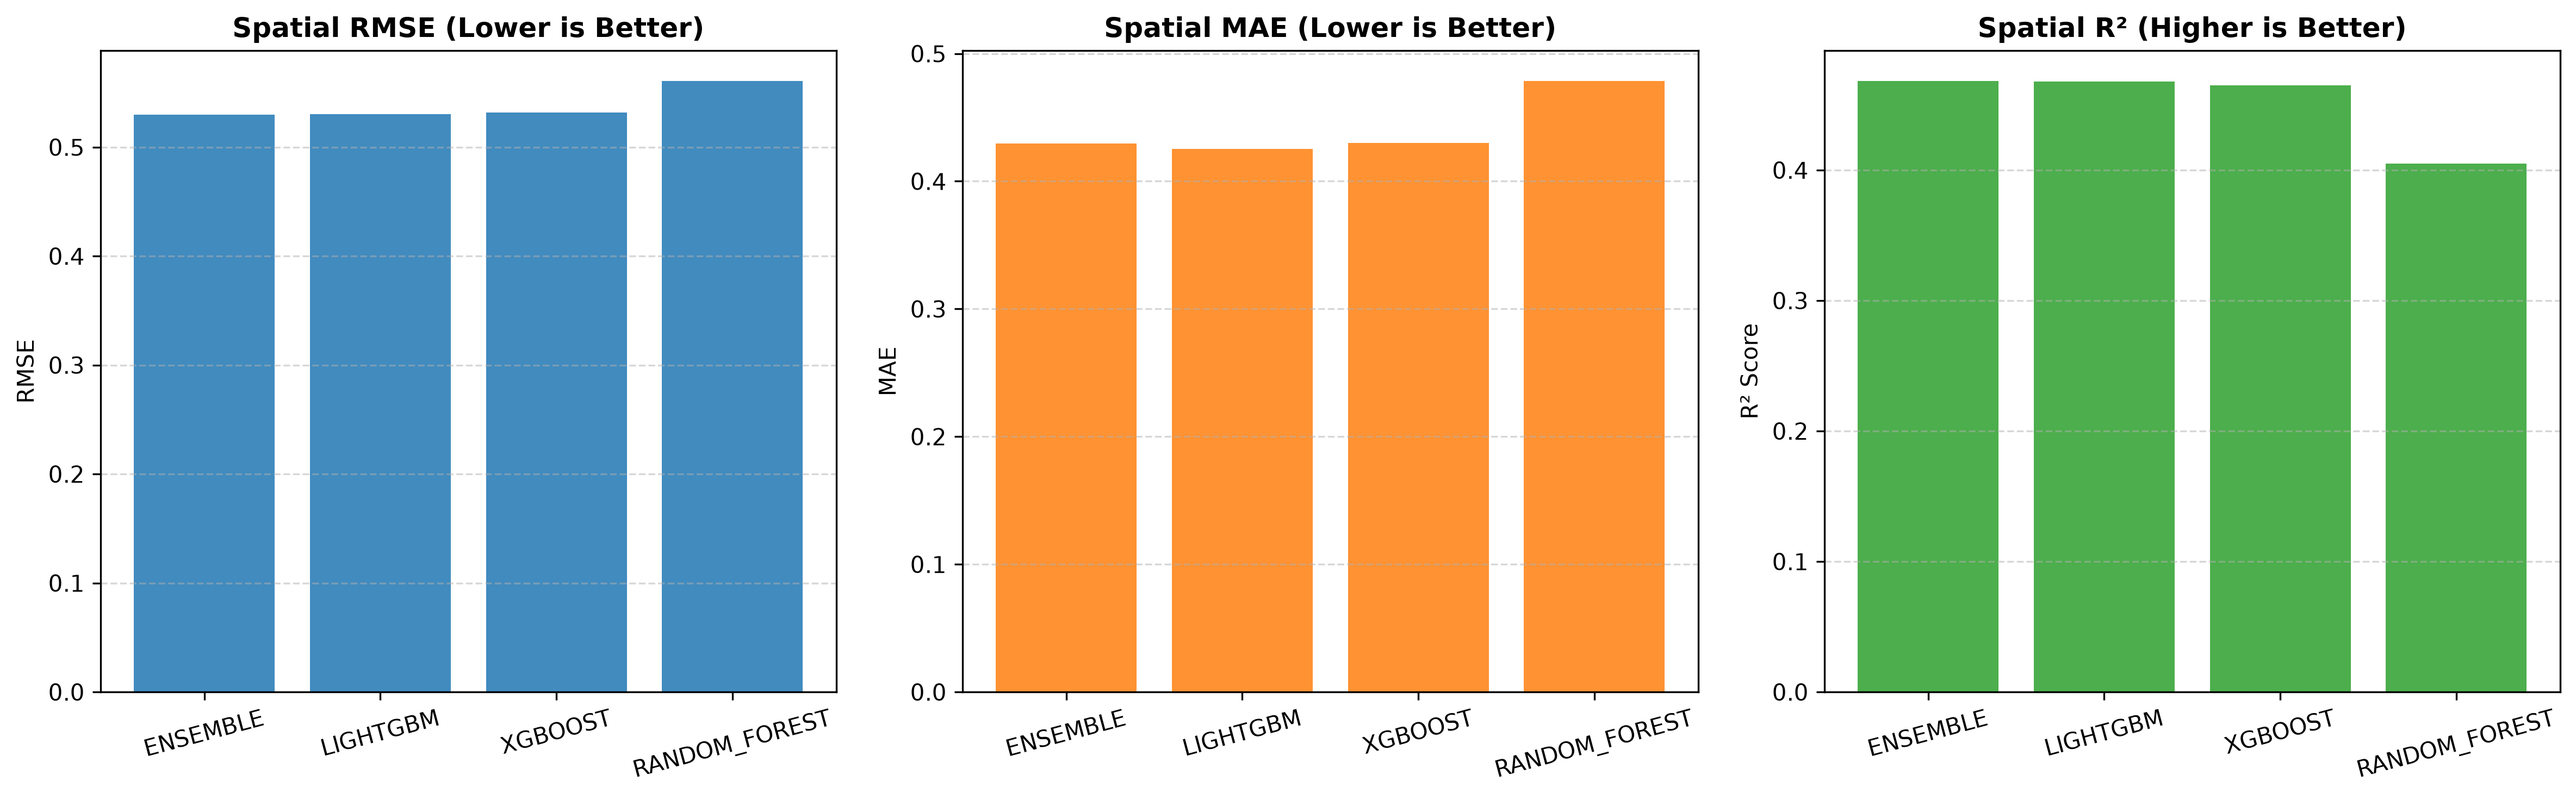
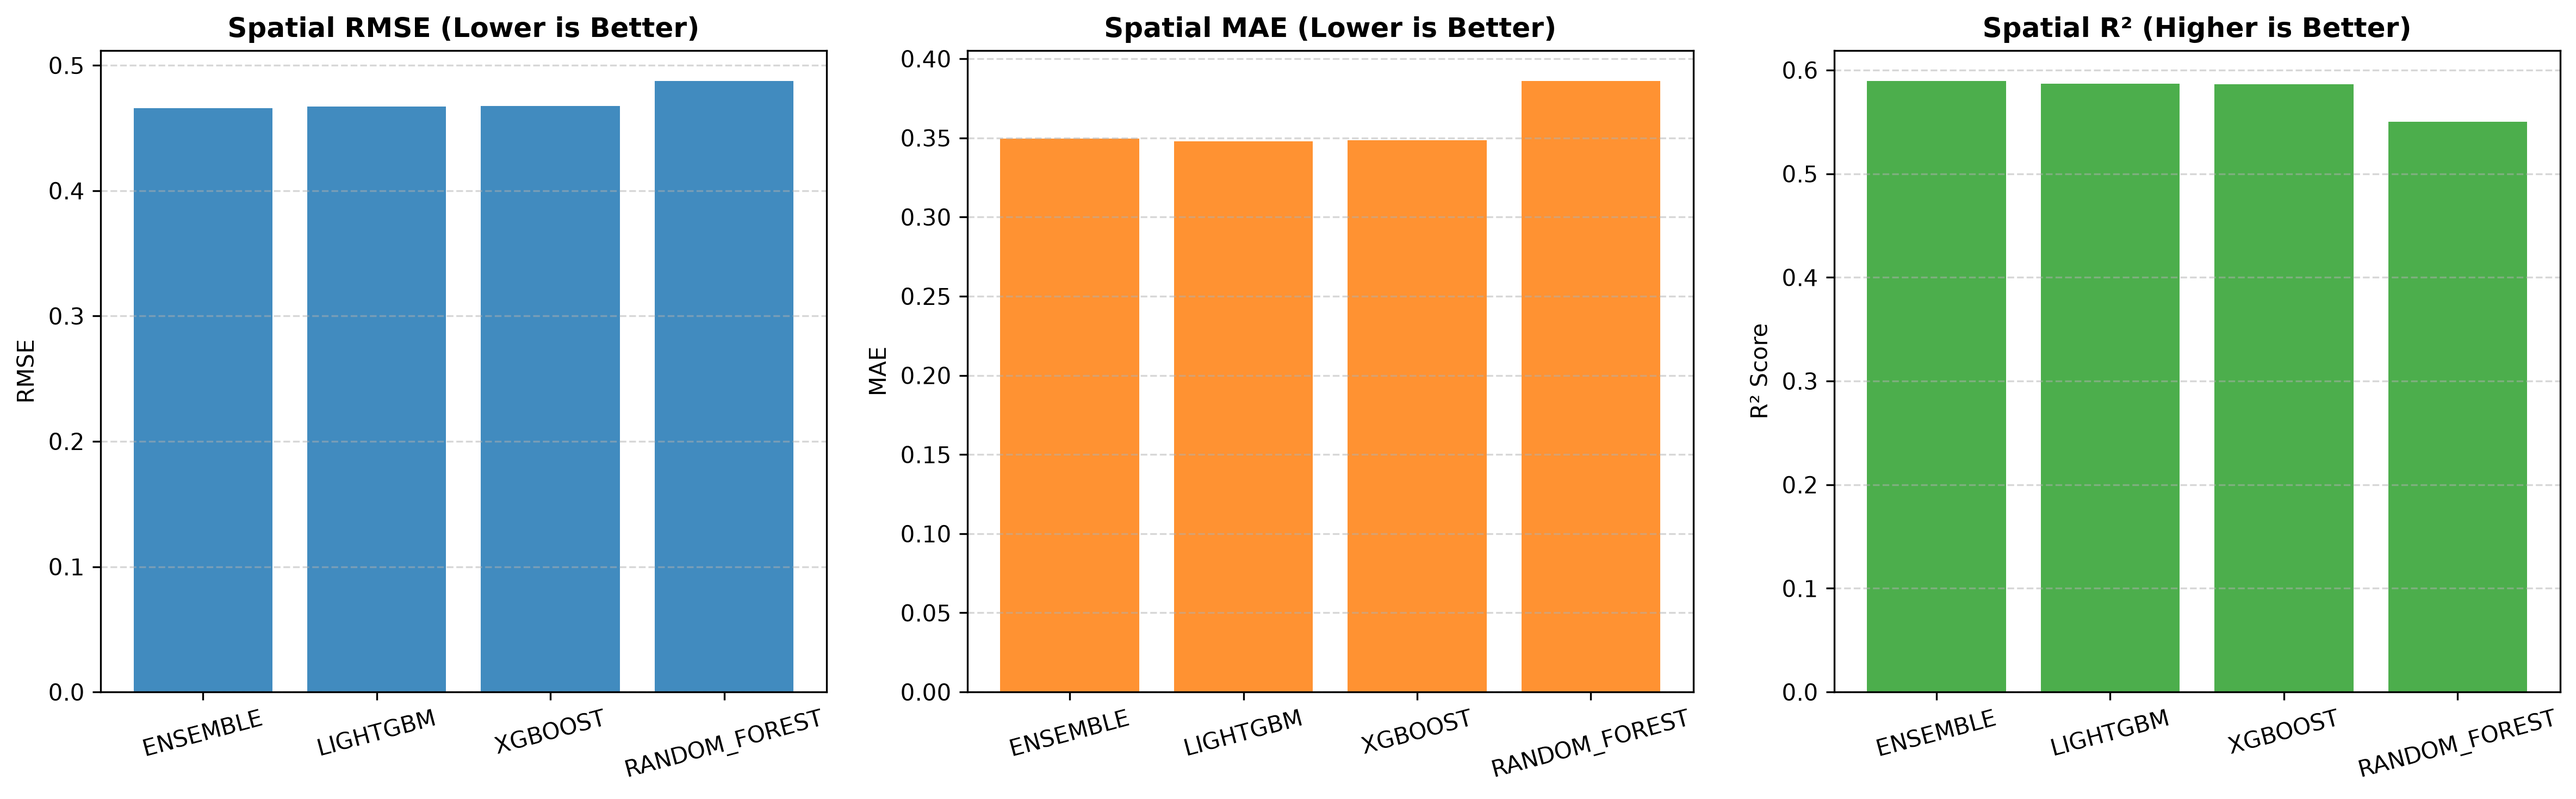
refactor: update ensemble hyperparameters and add prediction clipping to models

diff --git a/modeling.py b/modeling.py
@@ -816,19 +816,20 @@ class GrandmasterEnsembleRegressor:
         weights: Optional[Dict[str, float]] = None
     ) -> None:
         self.random_state = random_state
-        self.weights = weights or {"lgb": 0.45, "xgb": 0.45, "rf": 0.10}
+        self.weights = weights or {"lgb": 0.50, "xgb": 0.40, "rf": 0.10}
         self.model_lgb = lgb.LGBMRegressor(
-            n_estimators=220, learning_rate=0.035, max_depth=6, num_leaves=31,
-            subsample=0.8, colsample_bytree=0.75, reg_alpha=0.1, reg_lambda=1.0,
+            n_estimators=320, learning_rate=0.03, max_depth=6, num_leaves=35,
+            subsample=0.8, colsample_bytree=0.7, reg_alpha=0.2, reg_lambda=1.5,
             random_state=self.random_state, verbose=-1, n_jobs=-1
         )
         self.model_xgb = xgb.XGBRegressor(
-            n_estimators=220, learning_rate=0.035, max_depth=5,
-            subsample=0.8, colsample_bytree=0.75, reg_alpha=0.1, reg_lambda=1.0,
+            n_estimators=300, learning_rate=0.03, max_depth=5,
+            subsample=0.8, colsample_bytree=0.7, reg_alpha=0.2, reg_lambda=1.5,
             random_state=self.random_state, verbosity=0, n_jobs=-1
         )
         self.model_rf = RandomForestRegressor(
-            n_estimators=120, max_depth=14, max_features="sqrt",
+            n_estimators=100, max_depth=16, max_features="sqrt",
+            min_samples_split=4, min_samples_leaf=2,
             random_state=self.random_state, n_jobs=-1
         )
 
@@ -842,11 +843,12 @@ class GrandmasterEnsembleRegressor:
         p_lgb = self.model_lgb.predict(X)
         p_xgb = self.model_xgb.predict(X)
         p_rf = self.model_rf.predict(X)
-        return (
+        raw_pred = (
             self.weights["lgb"] * p_lgb
             + self.weights["xgb"] * p_xgb
             + self.weights["rf"] * p_rf
         )
+        return np.clip(raw_pred, 0.0, 2.0)
 
 
 # ==============================================================================
@@ -878,14 +880,14 @@ class VolatilityPredictor:
             if not HAS_LIGHTGBM:
                 raise ImportError("lightgbm is not installed.")
             default_params = {
-                "n_estimators": 220,
-                "learning_rate": 0.035,
+                "n_estimators": 320,
+                "learning_rate": 0.03,
                 "max_depth": 6,
-                "num_leaves": 31,
+                "num_leaves": 35,
                 "subsample": 0.8,
-                "colsample_bytree": 0.75,
-                "reg_alpha": 0.1,
-                "reg_lambda": 1.0,
+                "colsample_bytree": 0.7,
+                "reg_alpha": 0.2,
+                "reg_lambda": 1.5,
                 "random_state": self.random_state,
                 "verbose": -1,
                 "n_jobs": -1,
@@ -897,13 +899,13 @@ class VolatilityPredictor:
             if not HAS_XGBOOST:
                 raise ImportError("xgboost is not installed.")
             default_params = {
-                "n_estimators": 220,
-                "learning_rate": 0.035,
+                "n_estimators": 300,
+                "learning_rate": 0.03,
                 "max_depth": 5,
                 "subsample": 0.8,
-                "colsample_bytree": 0.75,
-                "reg_alpha": 0.1,
-                "reg_lambda": 1.0,
+                "colsample_bytree": 0.7,
+                "reg_alpha": 0.2,
+                "reg_lambda": 1.5,
                 "random_state": self.random_state,
                 "verbosity": 0,
                 "n_jobs": -1,
@@ -913,10 +915,10 @@ class VolatilityPredictor:
 
         elif mtype in ["random_forest", "rf"]:
             default_params = {
-                "n_estimators": 120,
-                "max_depth": 14,
-                "min_samples_split": 5,
-                "min_samples_leaf": 3,
+                "n_estimators": 100,
+                "max_depth": 16,
+                "min_samples_split": 4,
+                "min_samples_leaf": 2,
                 "max_features": "sqrt",
                 "random_state": self.random_state,
                 "n_jobs": -1,
@@ -964,7 +966,7 @@ class VolatilityPredictor:
             fold_model = self._instantiate_model(target_mtype, self.model_params)
             fold_model.fit(X_train, y_train)
 
-            preds = fold_model.predict(X_val)
+            preds = np.clip(fold_model.predict(X_val), 0.0, 2.0)
             oof_predictions[val_idx] = preds
 
             rmse = np.sqrt(mean_squared_error(y_val, preds))
@@ -1034,7 +1036,7 @@ class VolatilityPredictor:
 
     def predict(self, X: np.ndarray) -> np.ndarray:
         """Generates predictions for yield volatility."""
-        return self.model.predict(X)
+        return np.clip(self.model.predict(X), 0.0, 2.0)
 
 
 # ==============================================================================
